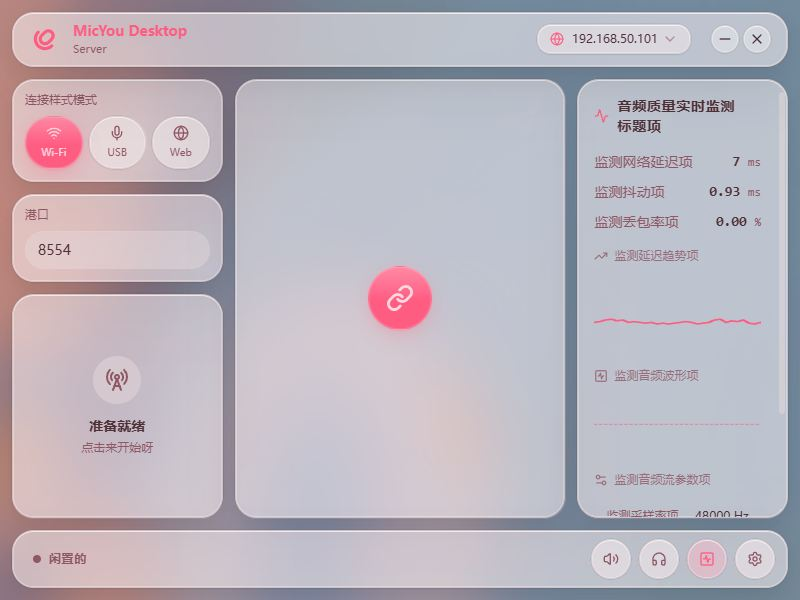
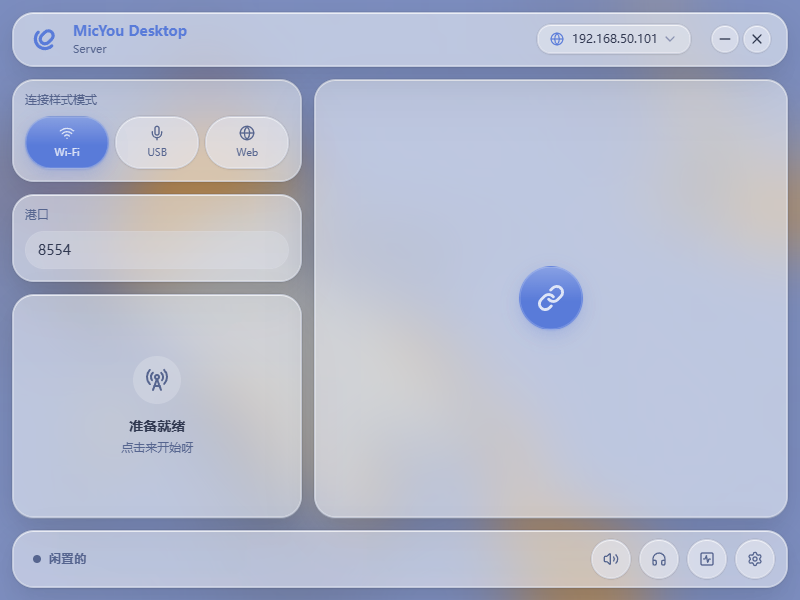
feat(theme): Glassmorphism 玻璃拟态材质主题（v1.1.1） (#3)

diff --git a/theme/ios-liquidglass/theme.css b/theme/ios-liquidglass/theme.css
@@ -1,5 +1,5 @@
 /* ==========================================================================
-   iOS 27 Glass — MicYou Theme
+   Glassmorphism — MicYou Theme
    --------------------------------------------------------------------------
    manifest: controlsThemeColor = false
    本主题不接管主题色，只提供「材质 + 形状」：
@@ -8,13 +8,12 @@
      · 半透明处理一律使用应用自己的颜色 + alpha，色相保持不变；
      · 折射底衬与高光使用中性明度（黑/白 alpha），不引入色相。
 
-   设计依据：iOS 27 对 Liquid Glass 的修订（WWDC 2026）
-     · 更均匀的折射 + 更高对比度，材质背后复杂内容被更好地扩散
-     · 玻璃元素四周「加深的边缘」+ 更明亮的镜面高光，增强纵深与分离感
-     · 系统级通透度滑块（crystal-clear ↔ fully tinted）
+   设计来源：玻璃拟态（Glassmorphism）——更均匀的折射带来更好的可读性，
+   玻璃元素四周加深边缘 + 更亮镜面高光强化纵深与分离感。
+     · 通过「低着色 + 强折射」实现清透玻璃感，而非磨砂质感
 
    可调旋钮（改一个值即可全局生效）：
-     --ios-glass-tint      玻璃着色量，等价于 iOS 27 的通透度滑块
+     --ios-glass-tint      玻璃着色量，即通透度滑块
                            0.20 ~ 0.35 = 清透玻璃（crystal-clear，当前取值）
                            0.70 ~ 1.00 = 磨砂 / 完全着色（fully tinted）
                            ⚠ 想更透就往下调这个值，它比 blur 的影响大得多
@@ -31,7 +30,7 @@
 
 :root,
 :root[class] {
-  /* 形状：iOS 连续圆角（squircle），面板 22px */
+  /* 形状：连续圆角（squircle），面板 22px */
   --radius: 1.375rem;
 
   /* --- Liquid Glass 材质 ---
@@ -42,7 +41,7 @@
   --ios-glass-saturate: 210%;
   --ios-glass-brightness: 1.06;
 
-  /* 加深的边缘：iOS 27 用来在低着色下维持可读性 */
+  /* 加深的边缘：在低着色下维持可读性与分离感 */
   --ios-edge-inner: 0 0% 100% / 0.6;
   --ios-edge-outer: 240 6% 10% / 0.12;
   /* 镜面高光 */
@@ -118,7 +117,7 @@ body.dark {
   border: 0.5px solid hsl(var(--border) / 0.55);
   border-radius: var(--radius);
   box-shadow:
-    /* 镜面高光：iOS 27 加亮的顶部边缘 */
+    /* 镜面高光：加亮的顶部边缘 */
     inset 0 1px 0 0 hsl(var(--ios-specular)),
     /* 加深的边缘：内亮外暗，把玻璃从背景里「抬」出来 */
     inset 0 0 0 0.5px hsl(var(--ios-edge-inner)),
@@ -188,7 +187,7 @@ li,
 
 /* --------------------------------------------------------------------------
    6. 控件交互
-      iOS 的按压反馈是「缩放到 0.97 + 弹性曲线」，用高光与缩放表达，不改颜色。
+      按压反馈是「缩放到 0.97 + 弹性曲线」，用高光与缩放表达，不改颜色。
    -------------------------------------------------------------------------- */
 
 button,
@@ -227,7 +226,7 @@ button:active:not(:disabled),
   transform: scale(0.97);
 }
 
-/* iOS 输入控件：只给形状（圆角 + 发丝描边）与聚焦高光，不给填充色 */
+/* 输入控件：只给形状（圆角 + 发丝描边）与聚焦高光，不给填充色 */
 input,
 textarea,
 select {
@@ -299,7 +298,7 @@ select:focus {
    9. 状态语义类
       用材质强度表达状态，不给元素指定颜色。
         .is-active：更亮的镜面高光 + 更实的边缘环
-        .is-disabled：整体 45% 透明度（对应 iOS disabled label 观感）
+        .is-disabled：整体 45% 透明度（对应禁用态标签的观感）
    -------------------------------------------------------------------------- */
 
 .is-active {
@@ -316,7 +315,7 @@ select:focus {
 }
 
 /* --------------------------------------------------------------------------
-   10. iOS 覆盖式滚动条
+   10. 覆盖式滚动条
    -------------------------------------------------------------------------- */
 
 ::-webkit-scrollbar {
@@ -341,7 +340,7 @@ select:focus {
 
 /* --------------------------------------------------------------------------
    11. 无障碍适配
-      iOS 27 的 Liquid Glass 会响应「减少透明度」与「增强对比度」。
+      玻璃材质会响应「减少透明度」与「增强对比度」等无障碍设置。
    -------------------------------------------------------------------------- */
 
 @media (prefers-reduced-transparency: reduce) {

diff --git a/README.md b/README.md
@@ -30,7 +30,7 @@ MicYou 的主题目录与主题包仓库。
 | 预览 | ID | 名称 | 描述 | 版本 | 作者 | 主题色 |
 | --- | --- | --- | --- | --- | --- | --- |
 | ![Default Blue](theme/default-blue/preview.png) | `default-blue` | Default Blue | MicYou 的默认蓝色主题，提供浅色和深色 Material 3 主题变量。 | 1.0.0 | MicYou | 接管主题色 |
-| ![iOS Liquid Glass](theme/ios-liquidglass/preview.png) | `ios-liquidglass` | iOS Liquid Glass | iOS 27 Liquid Glass 材质主题，加深边缘与镜面高光的液态玻璃、连续圆角、iOS 交互曲线，不接管主题色。 | 1.0.0 | MXDexRazero | 不接管主题色 |
+| ![Glassmorphism](theme/ios-liquidglass/preview.png) | `ios-liquidglass` | Glassmorphism | Glassmorphism：清透玻璃材质，加深边缘与镜面高光，连续圆角与弹性交互曲线，不接管主题色。 | 1.1.1 | MXDexRazero | 不接管主题色 |
 | ![Neon Pulse](theme/neon-pluse/preview.png) | `neon-pulse` | Neon Pulse | 霓虹青、品红与酸性绿构成的实验性赛博主题。 | 0.1.0 | MicYou | 接管主题色 |
 | ![Square Corners](theme/square-corners/preview.png) | `square-corners` | Square Corners | 实验性直角界面主题，只调整形状，不接管主题色。 | 0.1.0 | MicYou | 不接管主题色 |
 
